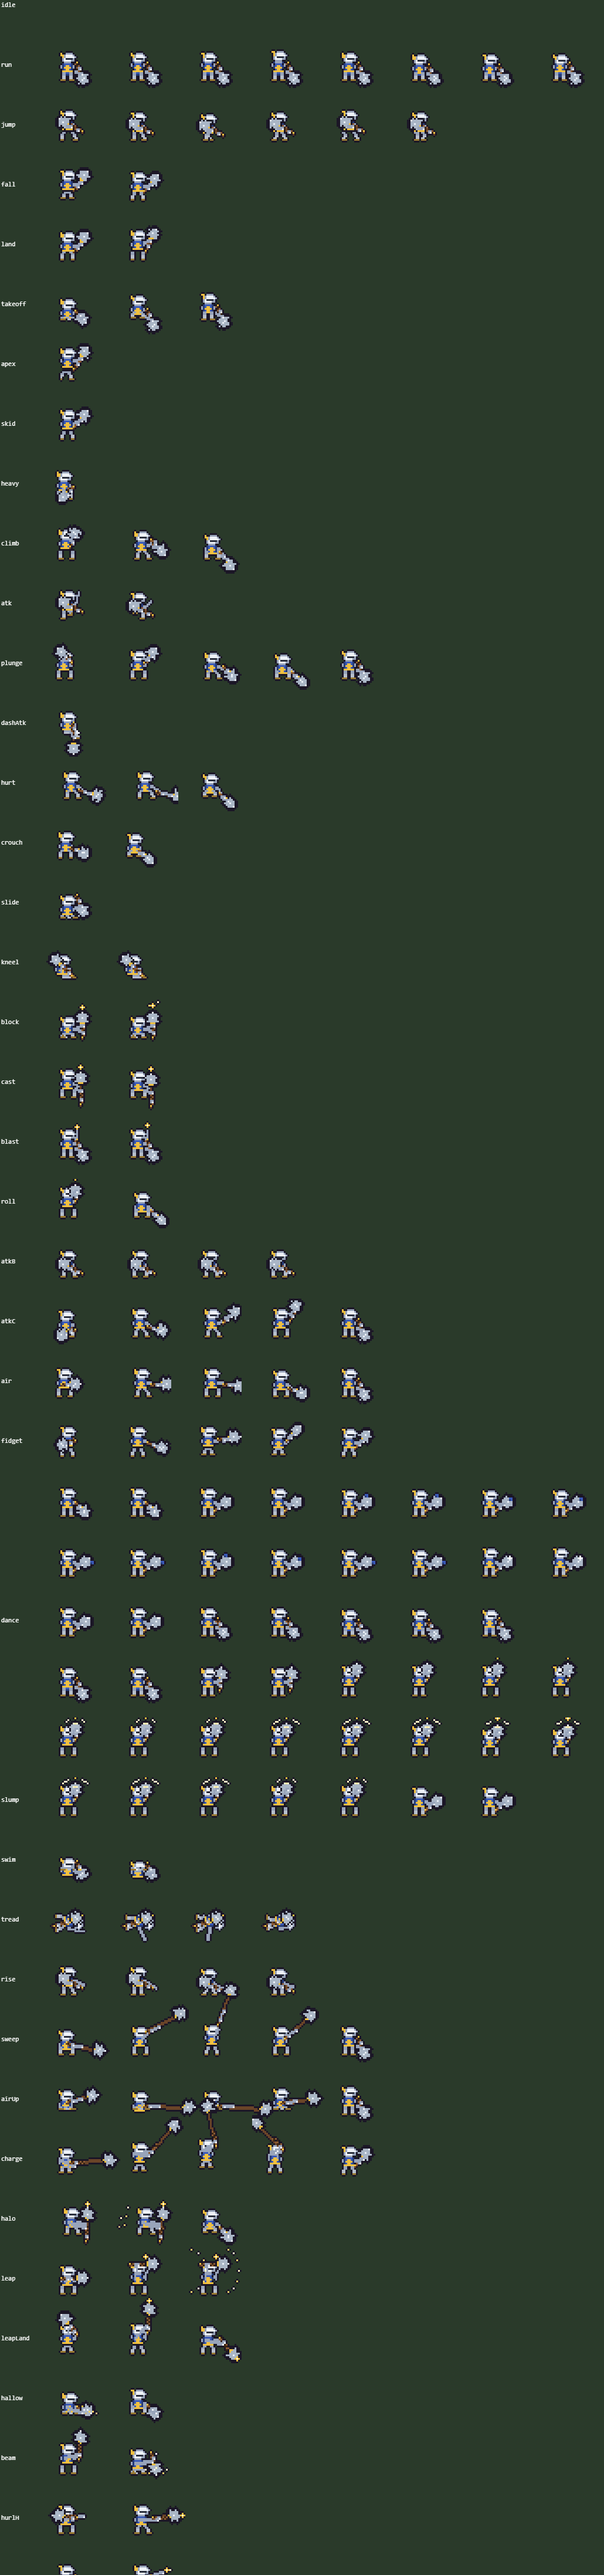
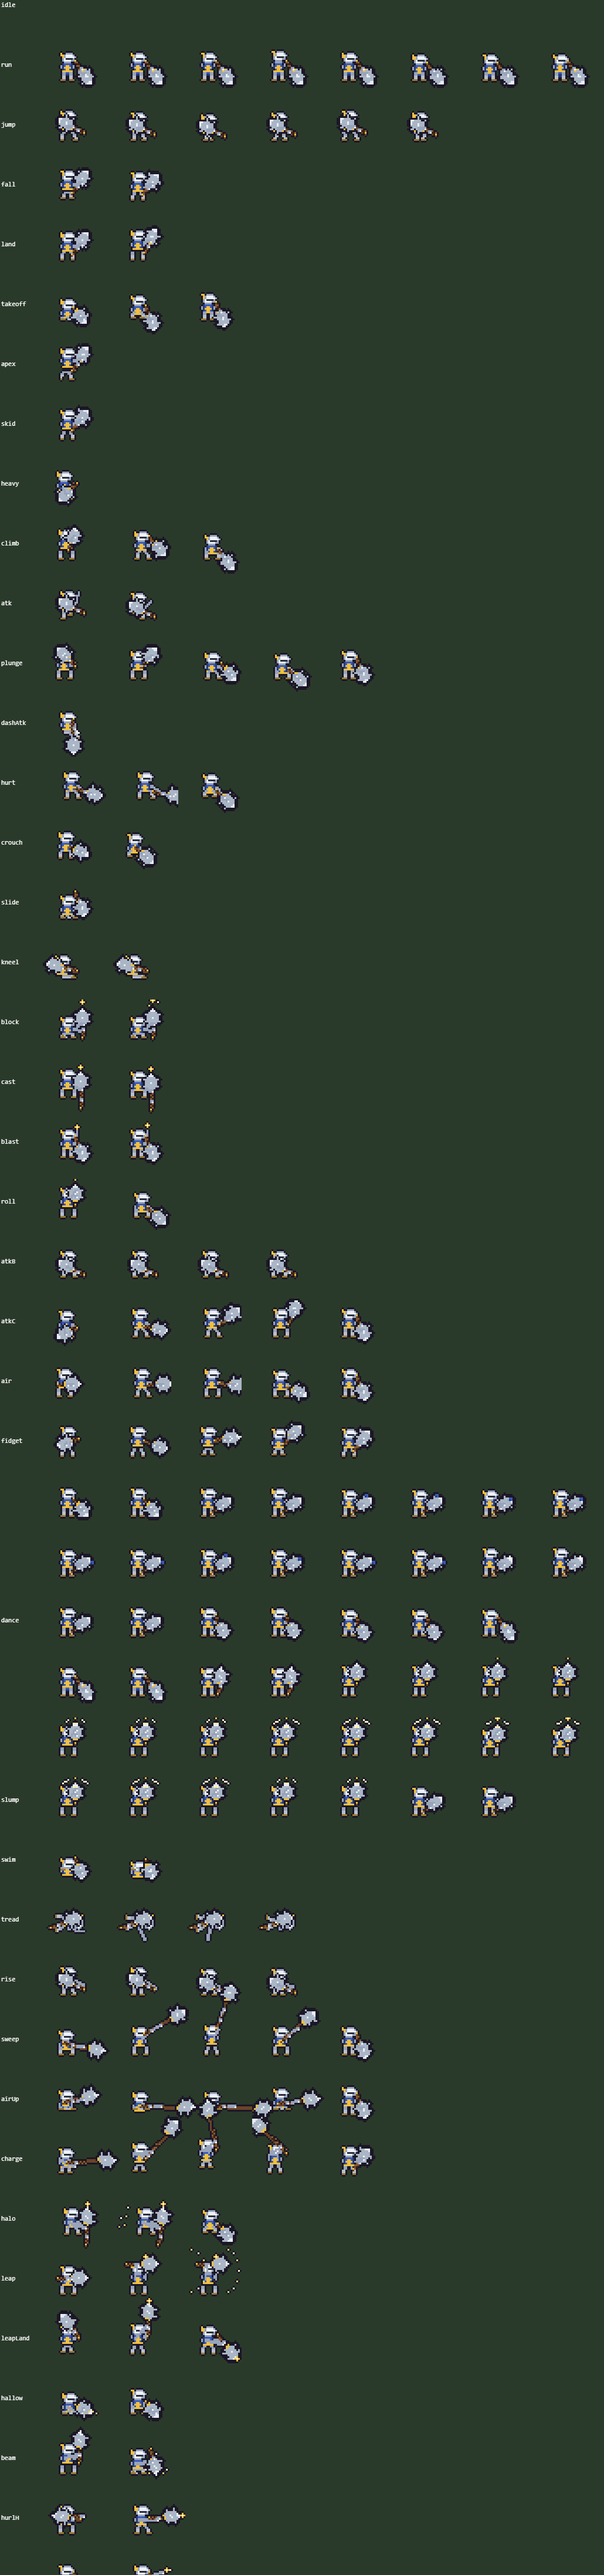
paladin mace: bigger head (~9x10) and longer haft (~14 px), still head-only weapon skins

diff --git a/src/chars.js b/src/chars.js
@@ -112,21 +112,21 @@ function knightFrame({ legs = 'stand', dy = 0, dx = 0, sword = null, arm = null,
     const [x0, y0, x1, y1] = maul.map((v, i) => v + (i & 1 ? dy : dx));
     const len = Math.hypot(x1 - x0, y1 - y0) || 1, ax = (x1 - x0) / len, ay = (y1 - y0) / len, qx = -ay, qy = ax;
     const at = (t, o = 0) => [Math.round(x0 + ax * t + qx * o), Math.round(y0 + ay * t + qy * o)];
-    line(g, ...at(-3), ...at(len - 2), '#6a4428', 2);                                       // the haft, its butt three past the hand
-    for (let t = -2; t <= 5; t++) { px(g, ...at(t), t & 1 ? '#8a5a34' : '#3a2412'); px(g, ...at(t, 1), t & 1 ? '#3a2412' : '#8a5a34'); }   // the grip wrap
-    px(g, ...at(-3), KP.y);                                                                  // the pommel
-    const hx = x1 - ax * 1.5, hy = y1 - ay * 1.5;
-    const ROWS = { '-3': 1, '-2': 3.5, '-1': 2.5, 0: 2.5, 1: 3.5, 2: 2, 3: 0.5 };                  // half-width by step along the haft: socket, flange, core, core+stud, flange, core, spike
+    line(g, ...at(-5), ...at(len - 2), '#6a4428', 2);                                       // the haft, its butt five past the hand
+    for (let t = -4; t <= 6; t++) { px(g, ...at(t), t & 1 ? '#8a5a34' : '#3a2412'); px(g, ...at(t, 1), t & 1 ? '#3a2412' : '#8a5a34'); }   // the grip wrap
+    px(g, ...at(-5), KP.y);                                                                  // the pommel
+    const hx = x1 - ax * 3.5, hy = y1 - ay * 3.5;
+    const ROWS = { '-4': 1.5, '-3': 2.5, '-2': 4.5, '-1': 3, 0: 3, 1: 3, 2: 4.5, 3: 2.5, 4: 1.5, 5: 0.5 };                  // half-width by step along the haft: socket, flange, core, core+stud, flange, core, spike
     const inside = new Map(), key = (X, Y) => X + ',' + Y;
     for (let X = Math.floor(hx) - 6; X <= Math.ceil(hx) + 6; X++) for (let Y = Math.floor(hy) - 6; Y <= Math.ceil(hy) + 6; Y++) {
       const ox = X - hx, oy = Y - hy, t = Math.round(ox * ax + oy * ay), o = ox * qx + oy * qy, hw = ROWS[t];
       if (hw === undefined || Math.abs(o) > hw + 0.01) continue;
       const lit = o < -0.5, dark = o > 0.5, edge = Math.abs(o) > hw - 0.6 && hw >= 2;
-      inside.set(key(X, Y), t === -3 ? KP.y : t === 3 ? WT('#e8eef6', 1) : (t === -2 || t === 1) ? WT('#aab6c6', edge ? 0.15 : lit ? 1 : dark ? 0.4 : 0.7) : (t === 0 && Math.abs(o) < 0.8) ? WT('#e8eef6', 1) : WT('#aab6c6', lit ? 0.85 : dark ? 0.25 : 0.55));
+      inside.set(key(X, Y), t === -4 ? KP.y : t >= 4 ? WT('#e8eef6', 1) : (t === -2 || t === 2) ? WT('#aab6c6', edge ? 0.15 : lit ? 1 : dark ? 0.4 : 0.7) : (t === 0 && Math.abs(o) < 0.8) ? WT('#e8eef6', 1) : WT('#aab6c6', lit ? 0.85 : dark ? 0.25 : 0.55));
     }
     for (const k of [...inside.keys()]) { const [X, Y] = k.split(',').map(Number); for (const [u, v] of [[1, 0], [-1, 0], [0, 1], [0, -1]]) if (!inside.has(key(X + u, Y + v))) px(g, X + u, Y + v, KP.o); }
     for (const [k, c] of inside) { const [X, Y] = k.split(',').map(Number); px(g, X, Y, c); }
-    const t2 = Math.max(3, Math.min(5, len - 6)), h2 = arm2 ? [arm2[2] + dx, arm2[3] + dy] : at(t2);
+    const t2 = Math.max(3, Math.min(6, len - 7)), h2 = arm2 ? [arm2[2] + dx, arm2[3] + dy] : at(t2);
     if (!arm2) { const vx = BX + 3 + dx - h2[0], vy = BY + 8 + dy - h2[1], vl = Math.hypot(vx, vy) || 1, k = Math.min(1, 3.5 / vl); line(g, Math.round(h2[0] + vx * k), Math.round(h2[1] + vy * k), h2[0], h2[1], KP.S, 2); }                      // the off arm across to the haft
     for (const [hx2, hy2] of [at(0), h2]) { px(g, hx2, hy2, KP.S); px(g, hx2 + 1, hy2, KP.S); px(g, hx2, hy2 + 1, KP.S); px(g, hx2 + 1, hy2 + 1, KP.s); }   // the gauntlets
   }
@@ -2700,7 +2700,7 @@ export function bakePaladin(skin = {}, previewOnly = false) {
   const carry = (d = 0) => [sh[0] + 1, sh[1] + 3 + d, sh[0] - 8, sh[1] - 2 + d];  // slung back behind him at a run, clear of the helm
   // A STORE CARD NEEDS ONLY THE BREATH AND THE SWING, not the whole fighting life.
   const card = {
-    idle: () => ((previewOnly === 'icon' ? (BREATH).slice(0, 1) : (BREATH)).map(([dy, hy, sho, plume], i) => knightFrame({ dy, hy, sho, plume, maul: [sh[0] + 2, sh[1] + 1, sh[0] + 5, sh[1] + 9 - dy], bits: flap([3, 4], dy, breathLag(i), 'b', 'B') }))),
+    idle: () => ((previewOnly === 'icon' ? (BREATH).slice(0, 1) : (BREATH)).map(([dy, hy, sho, plume], i) => knightFrame({ dy, hy, sho, plume, maul: [sh[0] + 3, sh[1] + 1, sh[0] + 8, sh[1] + 9 - dy], bits: flap([3, 4], dy, breathLag(i), 'b', 'B') }))),
     atk: () => ([
       () => (knightFrame({ dx: -2, legs: 'wide', arm: [sh[0], sh[1], sh[0] - 2, sh[1] - 4], maul: [sh[0] - 2, sh[1] - 3, sh[0] - 7, sh[1] - 8], plume: 1 })),
       () => (// drawn back over the shoulder
@@ -2753,10 +2753,10 @@ export function bakePaladin(skin = {}, previewOnly = false) {
     hurt: [knightFrame({ dx: -1, dy: 1, legs: 'fall', maul: [sh[0] + 1, sh[1] + 2, sh[0] + 7, sh[1] + 5], plume: 2 }), knightFrame({ dx: -2, dy: 2, legs: 'land', maul: [sh[0], sh[1] + 3, sh[0] + 5, sh[1] + 8], plume: 1 })],
     crouch: knightFrame({ dy: 3, legs: 'crouch', legsDy: 3, maul: rest(-6) }),
     /* THE BUTT-SLIDE (src/slide.js): sat back on the ground with the legs run out in front, leaning away from the hill, the weapon tucked behind (a second frame for the cloth) */
-    slide: [0, 1].map(i => knightFrame({ dx: -3, dy: 3, legs: 'slide', legsDy: 3, plume: i * 2, arm: [sh[0], sh[1], sh[0] - 1, sh[1] + 2], maul: [sh[0] - 1, sh[1] + 2, sh[0] - 9, sh[1] - 6] })),
+    slide: [0, 1].map(i => knightFrame({ dx: -3, dy: 3, legs: 'slide', legsDy: 3, plume: i * 2, arm: [sh[0], sh[1], sh[0] - 1, sh[1]], maul: [sh[0] - 1, sh[1], sh[0] - 12, sh[1] - 3] })),
     /* KNEEL IN PRAYER (src/crouch-b.js): down on one knee, the maul planted upright before him with both hands on the haft and his helm
        bowed to it, the light gathering at its head - brighter, and a mote off it, on the second beat (and held there once his bar is full) */
-    kneel: [0, 1].map(i => knightFrame({ dy: 3, hy: 1, legs: 'kneel', arm: [sh[0], sh[1], sh[0] + 3, sh[1] + 1], maul: [sh[0] + 4, sh[1] + 2, sh[0] + 4, sh[1] - 8], glow: [sh[0] + 4, sh[1] - 12 - i], plume: 0,
+    kneel: [0, 1].map(i => knightFrame({ dy: 3, hy: 1, legs: 'kneel', arm: [sh[0], sh[1], sh[0] + 3, sh[1] + 1], maul: [sh[0] + 4, sh[1], sh[0] + 4, sh[1] - 10], glow: [sh[0] + 4, sh[1] - 15 - i], plume: 0,
       bits: i ? [[10, -6, '#ffd36b'], [15, -8, '#fff6c8']] : null })),
     // AEGIS: the maul planted upright before him, both hands on the haft
     block: [0, 1].map(i => knightFrame({ legs: 'wide', dy: i, arm: [sh[0], sh[1], sh[0] + 3, sh[1] + 2], maul: [sh[0] + 3, sh[1] + 9, sh[0] + 3, sh[1] - 5], glow: [sh[0] + 3, sh[1] - 9] })),

diff --git a/work/claude/lane-done/claude-paladinmace.md b/work/claude/lane-done/claude-paladinmace.md
@@ -7,3 +7,4 @@ Art only. Hitboxes, timings, frame counts, stats unchanged.
 ## QUESTIONS FOR DANIEL
 1. Head is ~7x8 px, haft ~11 px: recommend keep; say if you want it bigger/smaller.
 - Slide and kneel poses raised 2-3 px so the longer haft butt stays above the floor (slide, crouch-feet).
+- Round 2 (Daniel): head ~9x10 px, haft ~14 px (butt 5 past the hand), idle mace moved 3 px forward so the bigger head stays off the torso (weapon-skins probe); slide/kneel raised again; airUp/rise heads clear of the helm.
